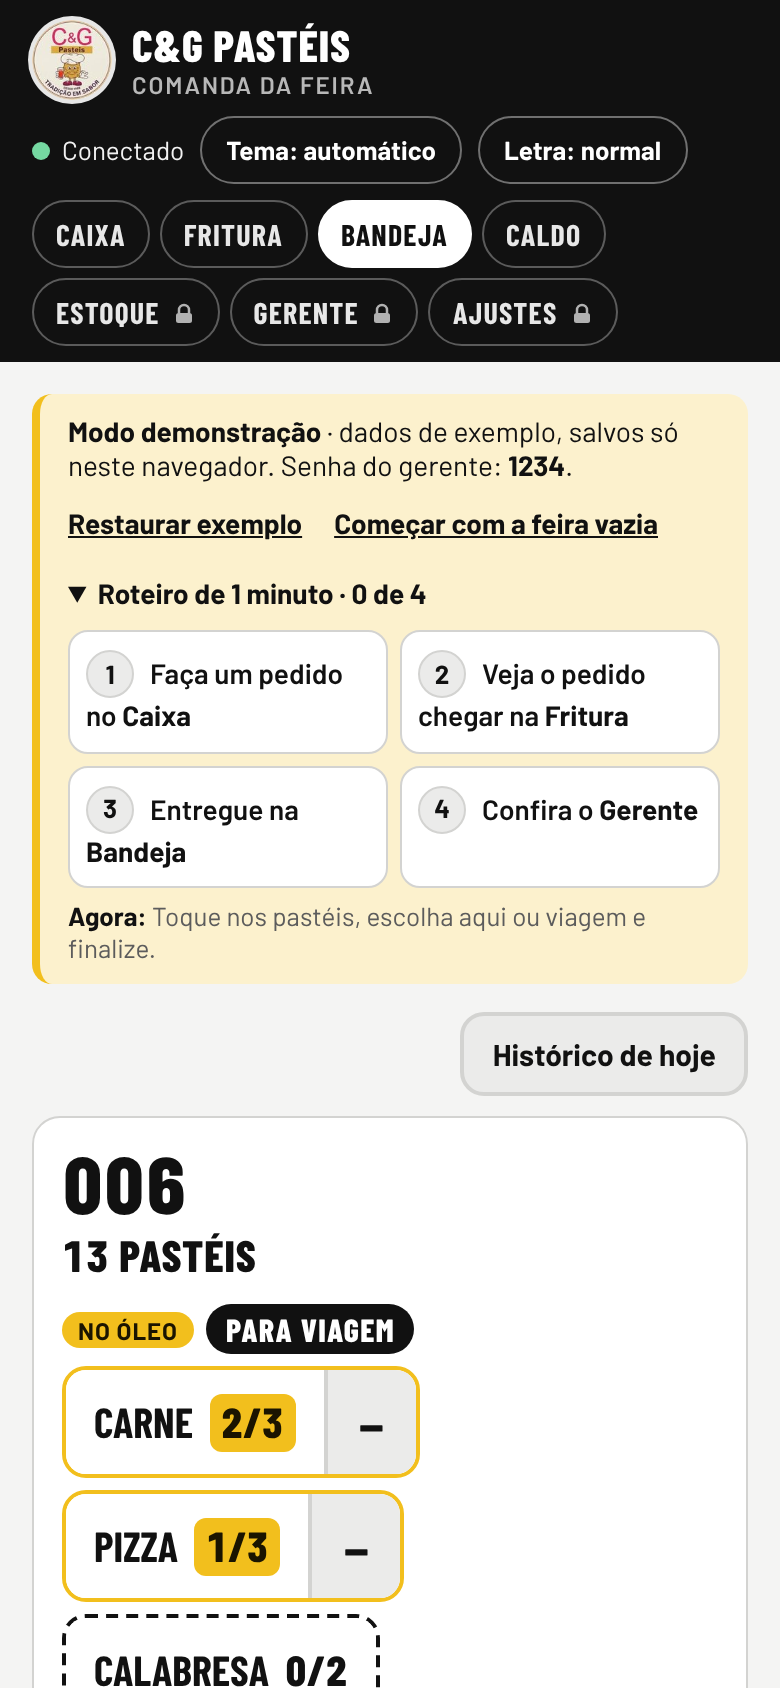
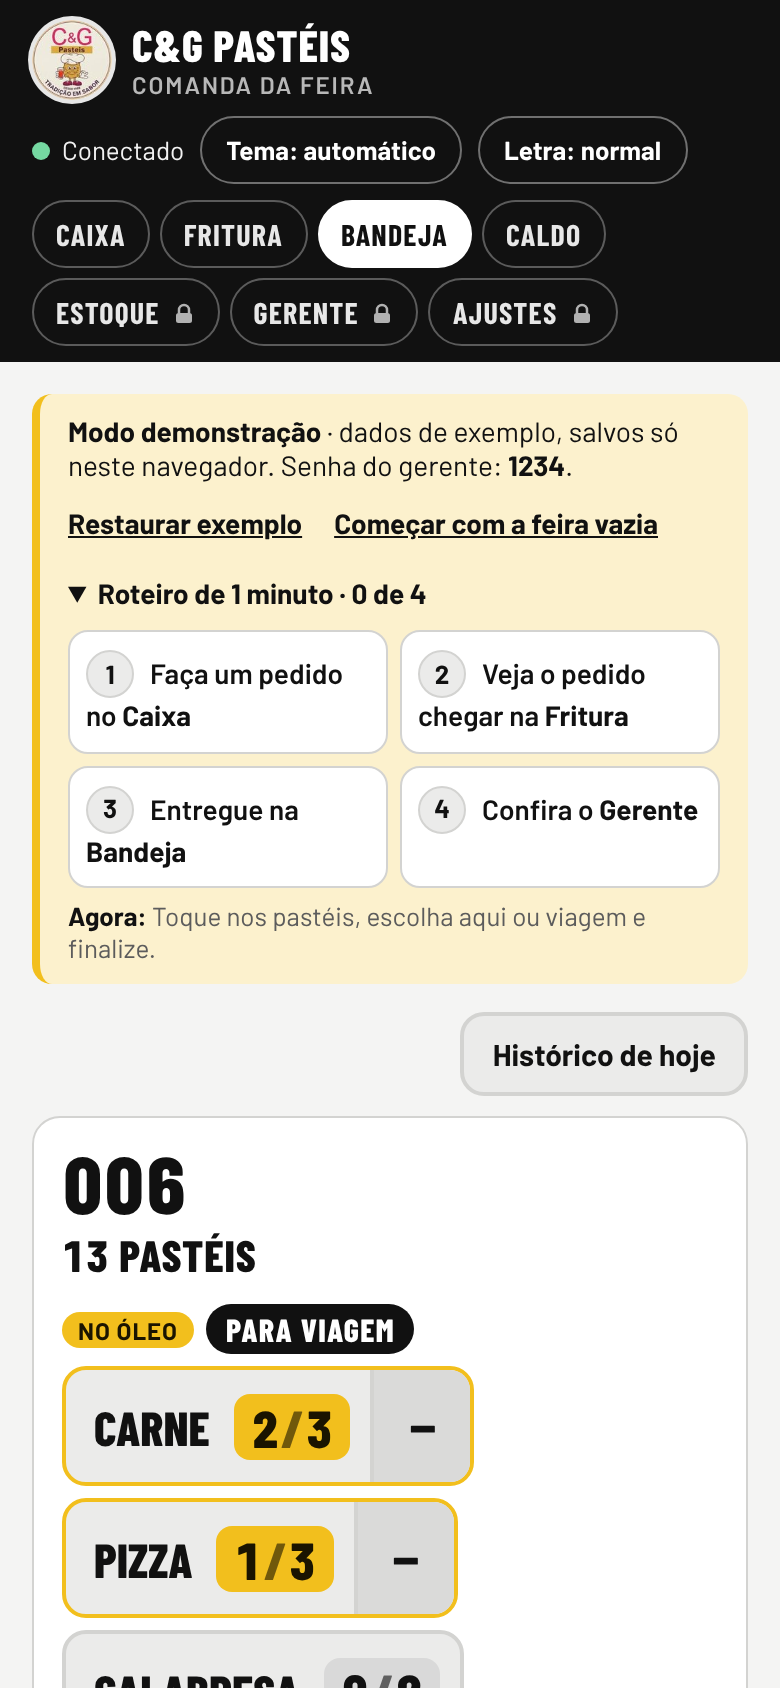
Bandeja: sabores em blocos sólidos com a fração num selo colorido
- Sai o pontilhado; cada sabor é um bloco sólido com "2/3" num selo à direita
- Cinza = nada entregue, amarelo = entregando, verde riscado e apagado = já saiu tudo
- O "−" aparece colado no bloco quando já tem algum entregue, inclusive no completo
- Sai a linha "Falta: ...", que repetia o que as cores já mostram

Claude-Session: https://claude.ai/code/session_01KhnfXZuQSGMguR8c1B4EdE

Changed region(s): [[0.0615, 0.8009, 0.6154, 1.0]]

diff --git a/css/estilos.css b/css/estilos.css
@@ -356,20 +356,24 @@ h2{font-family:var(--display);font-weight:800;text-transform:uppercase;letter-sp
 .oilrow button{font-weight:700;text-decoration:underline;padding:8px 4px;min-height:40px}
 /* Bandeja: marcar cada pastel entregue */
 .ub-wrap{display:flex;flex-wrap:wrap;gap:6px;margin-top:6px}
-.ubg{display:inline-flex;align-items:stretch;border:2px dashed var(--fg);border-radius:12px;overflow:hidden;max-width:100%}
-.ubg .ub-main{padding:10px 14px;font-family:var(--display);font-weight:700;font-size:21px;text-transform:uppercase;min-height:52px;background:var(--surface);color:var(--fg);touch-action:manipulation;-webkit-user-select:none;user-select:none;-webkit-touch-callout:none;overflow-wrap:break-word;text-align:left;min-width:0}
-.ubg .ub-main b{margin-left:8px;font-variant-numeric:tabular-nums;font-weight:800;white-space:nowrap;display:inline-block}
-.ubg .ub-minus{width:46px;flex:none;border-left:2px solid var(--line);font-size:26px;font-weight:800;background:var(--soft);color:var(--fg);touch-action:manipulation}
-.ubg.part{border-style:solid;border-color:var(--mostarda)}
-.ubg.part .ub-main b{background:var(--mostarda);color:var(--mostarda-fg);border-radius:6px;padding:0 6px}
-.ubg.ok{border-style:solid;border-color:var(--ok)}
-.ubg.ok .ub-main{background:var(--ok);color:var(--ok-fg)}
-.ubg.ok .ub-minus{background:var(--ok);color:var(--ok-fg);border-left-color:color-mix(in srgb,var(--ok-fg) 35%,transparent)}
+/* bandeja: cada sabor num bloco sólido com a fração num selo colorido.
+   cinza = nada entregue · amarelo = entregando · verde, riscado e apagado = já saiu tudo */
+.ubg{display:inline-flex;align-items:stretch;border:2px solid var(--line);border-radius:12px;overflow:hidden;max-width:100%;background:var(--soft)}
+.ubg .ub-main{display:flex;align-items:center;gap:12px;padding:8px 10px 8px 14px;font-family:var(--display);font-weight:800;font-size:24px;line-height:1.05;text-transform:uppercase;min-height:56px;background:transparent;color:var(--fg);touch-action:manipulation;-webkit-user-select:none;user-select:none;-webkit-touch-callout:none;overflow-wrap:break-word;text-align:left;min-width:0}
+.ubg .ub-main .nm{min-width:0}
+.ubg .ub-main b{font-size:26px;font-variant-numeric:tabular-nums;font-weight:800;white-space:nowrap;display:inline-block;border-radius:8px;padding:3px 9px;background:color-mix(in srgb,var(--fg) 16%,var(--surface));color:var(--fg)}
+.ubg .ub-main b i{font-style:normal;opacity:.6;margin:0 1px}
+.ubg .ub-minus{width:50px;flex:none;border-left:2px solid var(--line);font-size:28px;font-weight:800;background:color-mix(in srgb,var(--fg) 8%,var(--soft));color:var(--fg);touch-action:manipulation}
+.ubg.part{border-color:var(--mostarda)}
+.ubg.part .ub-main b{background:var(--mostarda);color:var(--mostarda-fg)}
+.ubg.ok{border-color:color-mix(in srgb,var(--ok) 55%,var(--line));background:transparent;opacity:.6}
+.ubg.ok .ub-main .nm{color:var(--ok);text-decoration:line-through;text-decoration-thickness:3px}
+.ubg.ok .ub-main b{background:var(--ok);color:var(--ok-fg)}
 @media (max-width:460px){#listBandeja .ord,#listCaldo .ord{grid-template-columns:minmax(0,1fr);gap:8px}#listBandeja .ord .num,#listCaldo .ord .num{font-size:40px}}
 /* bebidas na bandeja: faixa azul própria, nome grande como os pastéis */
 .ub-bebidas{display:flex;flex-wrap:wrap;gap:6px;align-items:center;margin-top:8px;padding:8px;border-radius:12px;border:2px solid var(--beb);background:color-mix(in srgb,var(--beb) 12%,var(--surface))}
 .ub-bebidas .lbl{font-family:var(--display);font-weight:800;font-size:16px;letter-spacing:.06em;text-transform:uppercase;background:var(--beb);color:var(--beb-fg);border-radius:999px;padding:3px 10px}
-.ubg.beb{border-color:var(--beb);border-style:solid}
+.ubg.beb{border-color:var(--beb)}.ubg.beb:not(.ok){background:var(--surface)}
 .frit-estufa{border:2px solid var(--est);background:color-mix(in srgb,var(--est) 12%,var(--surface));border-radius:14px;padding:10px 12px;margin-bottom:12px;display:flex;flex-direction:column;gap:4px}
 .frit-estufa .lbl,.pc-estufa .lbl{font-family:var(--display);font-weight:800;font-size:18px;letter-spacing:.06em;text-transform:uppercase;color:var(--est)}
 .fe-row{display:flex;flex-wrap:wrap;gap:4px 12px;align-items:baseline;font-family:var(--display);font-size:28px;font-weight:700;text-transform:uppercase}
@@ -377,7 +381,7 @@ h2{font-family:var(--display);font-weight:800;text-transform:uppercase;letter-sp
 .pc-estufa{margin-top:10px;display:flex;flex-wrap:wrap;gap:4px 10px;align-items:baseline;border:2px dashed var(--est);border-radius:10px;padding:8px 12px;font-family:var(--display);font-size:28px;font-weight:700;text-transform:uppercase}
 .ub-estufa{display:flex;flex-wrap:wrap;gap:6px;align-items:center;margin:2px 0 8px;padding:8px;border-radius:12px;border:2px solid var(--est);background:color-mix(in srgb,var(--est) 12%,var(--surface))}
 .ub-estufa .lbl{font-family:var(--display);font-weight:800;font-size:16px;letter-spacing:.06em;text-transform:uppercase;background:var(--est);color:var(--est-fg);border-radius:999px;padding:3px 10px}
-.ubg.est{border-color:var(--est);border-style:solid}
+.ubg.est{border-color:var(--est)}.ubg.est:not(.ok){background:var(--surface)}
 .ubg.est.part{border-color:var(--mostarda)}.ubg.est.ok{border-color:var(--ok)}
 .mrow .chk{flex-direction:row;align-items:center;gap:10px;text-transform:none;letter-spacing:0;font-size:14px;color:var(--fg)}
 .mrow .chk input{width:22px;height:22px;flex:none;padding:0}

diff --git a/js/app.js b/js/app.js
@@ -855,17 +855,14 @@ function caldoBlock(o){
   const l=Object.entries(o.caldo||{}).filter(([,q])=>+q>0).sort((a,b)=>menuPos("caldo",a[0].split(" + ")[0])-menuPos("caldo",b[0].split(" + ")[0])||a[0].localeCompare(b[0]));
   return `<div class="cd-list">${l.map(([k,q])=>{const [tam,...sab]=k.split(" + ");
     return `<div class="cd"><span class="cd-q">${+q}×</span><span class="cd-t">${esc(tam)}</span>${sab.length?sab.map(x=>`<span class="cd-s">${esc(x)}</span>`).join(""):'<span class="cd-s puro">Puro</span>'}</div>`}).join("")}</div>`}
-function unitsBlock(o){const u=entUnits(o),algum=u.some(x=>x.d>0);
-  const chip=x=>{const ok=x.d>=x.q;return `<span class="ubg${ok?" ok":x.d?" part":""}${x.k==="bebida"?" beb":estufaSet().has(x.f)?" est":""}"><button type="button" class="ub-main" data-ent="${esc(o.id)}" data-key="${esc(x.key)}" data-op="+" aria-label="${esc(x.f)}: ${x.d} de ${x.q} entregues. Tocar soma um, segurar marca todos.">${ok?"✓ ":""}${esc(x.f)}<b>${x.d}/${x.q}</b></button>${x.d?`<button type="button" class="ub-minus" data-ent="${esc(o.id)}" data-key="${esc(x.key)}" data-op="-" aria-label="Tirar um ${esc(x.f)}">−</button>`:""}</span>`};
+function unitsBlock(o){const u=entUnits(o);
+  const chip=x=>{const ok=x.d>=x.q;return `<span class="ubg${ok?" ok":x.d?" part":""}${x.k==="bebida"?" beb":estufaSet().has(x.f)?" est":""}"><button type="button" class="ub-main" data-ent="${esc(o.id)}" data-key="${esc(x.key)}" data-op="+" aria-label="${esc(x.f)}: ${x.d} de ${x.q} entregues. Tocar soma um, segurar marca todos.">${ok?"✓ ":""}<span class="nm">${esc(x.f)}</span><b>${x.d}<i>/</i>${x.q}</b></button>${x.d?`<button type="button" class="ub-minus" data-ent="${esc(o.id)}" data-key="${esc(x.key)}" data-op="-" aria-label="Tirar um ${esc(x.f)}">−</button>`:""}</span>`};
   /* bebidas numa faixa própria (azul), para não passarem batido no meio dos pastéis */
   /* salgados da estufa em cima (quem está na bandeja pega na estufa), depois pastéis, depois bebidas */
   const st=estufaSet(),estu=u.filter(x=>x.k==="pastel"&&st.has(x.f)),pas=u.filter(x=>x.k==="pastel"&&!st.has(x.f)),beb=u.filter(x=>x.k==="bebida");
-  const fal=l=>l.filter(x=>x.d<x.q).map(x=>(x.q-x.d)+"× "+x.f),fe=fal(estu),fp=fal(pas),fb=fal(beb);
-  const falta=[fe.length?"Estufa: "+fe.join(", "):"",fp.join(", "),fb.length?"Bebidas: "+fb.join(", "):""].filter(Boolean).join(" · ");
   return (estu.length?`<div class="ub-estufa"><span class="lbl">Estufa</span>${estu.map(chip).join("")}</div>`:"")
     +(pas.length?`<div class="ub-wrap">${pas.map(chip).join("")}</div>`:"")
-    +(beb.length?`<div class="ub-bebidas"><span class="lbl">Bebidas</span>${beb.map(chip).join("")}</div>`:"")
-    +(algum&&falta?`<div class="falta">Falta: ${esc(falta)}</div>`:"")}
+    +(beb.length?`<div class="ub-bebidas"><span class="lbl">Bebidas</span>${beb.map(chip).join("")}</div>`:"")}
 /* toque soma 1, "−" tira 1, segurar o sabor marca todos daquele sabor */
 async function setEnt(o,key,op){if(!db)return;const u=entUnits(o).find(x=>x.key===key);if(!u)return;
   const n=op==="all"?u.q:op==="-"?Math.max(0,u.d-1):Math.min(u.q,u.d+1);if(n===u.d)return;

diff --git a/tests/e2e/pedidos.spec.js b/tests/e2e/pedidos.spec.js
@@ -48,8 +48,14 @@ test("bandeja conta cada sabor entregue e fecha o pedido quando tudo foi entregu
   const carne = pedido.locator('.ub-main[data-key="p|CARNE"]');
   await carne.click();
   await expect(carne).toContainText("1/2");
-  await expect(pedido.locator(".falta")).toContainText("1× CARNE, 1× QUEIJO");
+  await expect(carne.locator("..")).toHaveClass(/part/);              // entregando: selo amarelo
+  // tocou errado? o "−" tira um
   await carne.click();
+  await expect(carne).toContainText("2/2");
+  await pedido.locator('.ub-minus[data-key="p|CARNE"]').click();
+  await expect(carne).toContainText("1/2");
+  await carne.click();
+  await expect(carne.locator("..")).toHaveClass(/ok/);                // saiu tudo: verde e riscado
   await pedido.locator('.ub-main[data-key="p|QUEIJO"]').click();
   await expect(page.locator("#undoBandeja")).toContainText(`Pedido ${n} marcado como entregue`);
 });

diff --git a/README.md b/README.md
@@ -30,7 +30,7 @@ A barraca trabalha com dois caixas, uma pessoa fritando, uma na bandeja (que ent
 |---|---|
 | **Caixa** | Cardápio em botões (1 toque = 1 pastel), sabores de caldo combináveis, aviso de sabor acabando, "comer aqui, viagem ou **parte viagem**" (marca item por item o que vai para viagem), troco com sugestão de notas, divisão da conta (partes iguais ou por item). **Observação do pedido** com botões rápidos (+ vinagrete, + maionese, + ketchup) ou texto livre. **Cobrar depois** com nome do cliente, acréscimos na mesma ficha e divisão na hora de receber. Pedido da **equipe** (vai para a produção e desconta do estoque, mas não entra no faturamento). **Editar** e cancelar pedido, com desfazer, e **histórico do dia** com busca. |
 | **Fritura** | Feita para ler de longe, com letra grande, inclusive no celular. Em cima, **"No fogo agora"**: os pedidos que cabem na fritada pela capacidade do óleo, um sabor por linha, com o botão **"Coloquei no óleo"**. Embaixo, as **próximas levas**, uma linha por pedido. Quando um pedido vai para o óleo, os próximos sobem sozinhos; só rola para baixo, nunca para o lado. Na tela grande, os cartões de uma fileira têm a mesma altura e o botão fica sempre alinhado embaixo. O acréscimo feito na mesma ficha entra no cartão do pedido, como se tivesse sido pedido junto. No celular preso no posto, o topo do app vira uma linha fina. Sino a cada pedido novo, que chega destacado, e a caixa do som encolhe depois de ligada. Num pedido editado, mostra só o que foi acrescentado. A observação do pedido não aparece aqui, só na bandeja e no caldo. |
-| **Bandeja** | **Contador por sabor** ("CARNE 2/3"): mostra o que falta entregar, e o pedido sai sozinho quando tudo foi entregue. Mostra se o pedido ainda está "esperando fritar" ou já está "no óleo", o **nome do cliente** ao lado do número, a **observação** numa faixa amarela, o que vai **para viagem** numa faixa preta, o **total de pastéis** embaixo do número (para conferir pedido grande sem contar), as bebidas numa faixa azul e os salgados da estufa à parte. Pedido que não depende da fritura sobe para o topo. |
+| **Bandeja** | **Contador por sabor** num selo colorido ("CARNE 2/3"): cinza quando nada saiu, amarelo enquanto entrega e verde, riscado e apagado quando já saiu tudo, com um "−" para desfazer um toque errado. O pedido sai sozinho quando tudo foi entregue. Mostra se o pedido ainda está "esperando fritar" ou já está "no óleo", o **nome do cliente** ao lado do número, a **observação** numa faixa amarela, o que vai **para viagem** numa faixa preta, o **total de pastéis** embaixo do número (para conferir pedido grande sem contar), as bebidas numa faixa azul e os salgados da estufa à parte. Pedido que não depende da fritura sobe para o topo. |
 | **Caldo** | Cada copo ou garrafa numa linha, com tamanho, quantidade e sabores separados. |
 | **Estoque** | Estoque padrão de cada feira (terça, sexta e domingo) que já vale no dia, com ajuste do dia, **+ Repor** e **− Perda**. Desconta sozinho a cada venda, e o **banco recusa a venda** de um sabor que acabou, mesmo que o celular de um caixa esteja atrasado. |
 | **Gerente** | Faturamento do dia, da semana e do mês, comparação com o período anterior, **faturamento por tipo** (pastel, caldo e bebida), sabores mais vendidos, dinheiro × Pix, valor por caixa, consumo da equipe, cancelados, contas em aberto e conferência da gaveta. |
